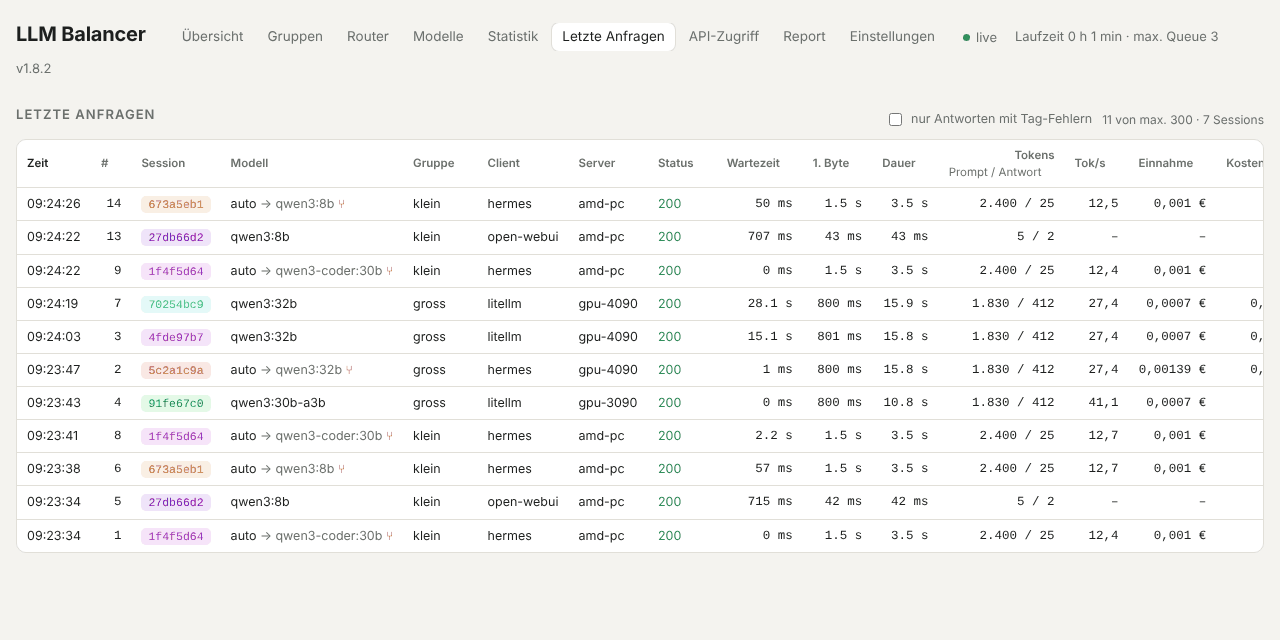
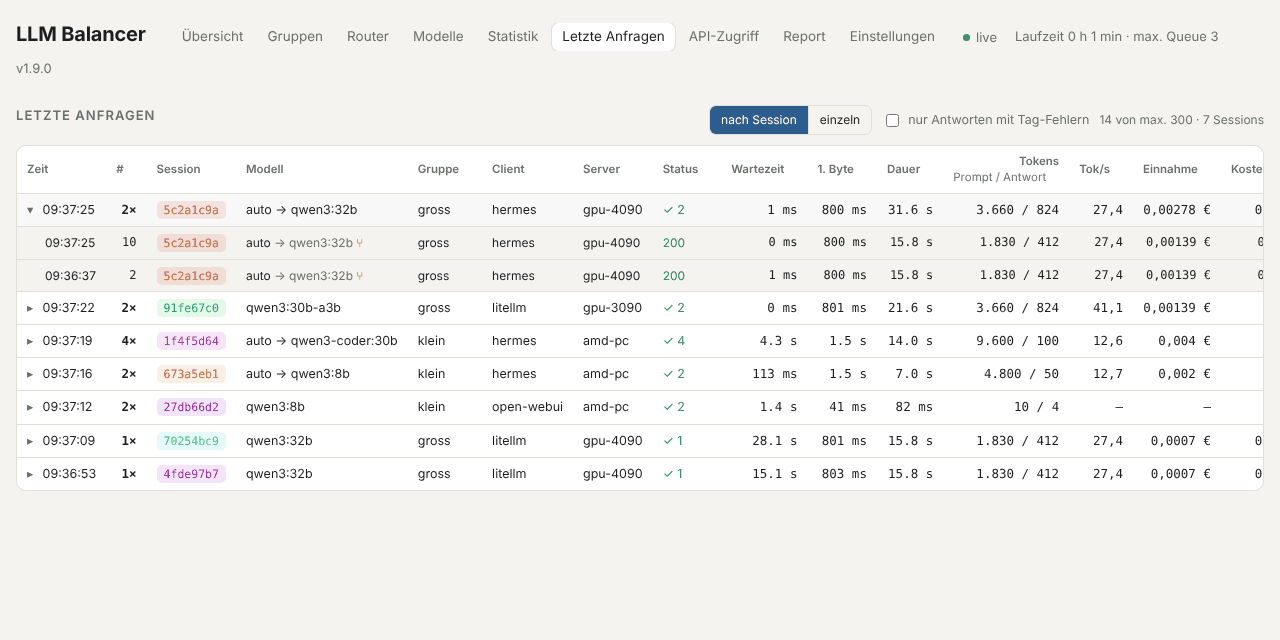
v1.9.1: recent requests grouped by session with totals, requests expandable
Claude-Session: https://claude.ai/code/session_01KQcn9DnyiX6NLjayKoW5s7

diff --git a/web/index.html b/web/index.html
@@ -266,6 +266,10 @@ body[data-role=viewer] #nform input,body[data-role=viewer] #nform select,body[da
 .chklist label{display:flex;align-items:center;gap:8px;margin:6px 0;font-size:13px;color:var(--ink)} .chklist input{width:auto}
 .impres{font-size:12.5px;margin-top:10px} .impres li{margin:2px 0}
 .lrun{display:inline-flex;align-items:center;gap:6px;font-weight:600}
+tr.sgrp{cursor:pointer} tr.sgrp:hover td{background:color-mix(in srgb, var(--ink) 3%, var(--panel))}
+tr.sgrp .chev{display:inline-block;width:12px;color:var(--muted)}
+tr.child td{background:var(--bg);font-size:12px} tr.child td:first-child{padding-left:28px}
+.okc{color:var(--free)} .errc{color:var(--down)}
 #toast{position:fixed;left:50%;bottom:20px;transform:translateX(-50%);background:var(--ink);color:var(--bg);padding:9px 14px;border-radius:8px;font-size:13px;opacity:0;transition:opacity .2s;pointer-events:none;max-width:calc(100vw - 32px)}
 #toast.show{opacity:1}
 </style>
@@ -399,7 +403,8 @@ body[data-role=viewer] #nform input,body[data-role=viewer] #nform select,body[da
   <div id="page-recent" hidden>
   <div class="sechead">
     <h2>Letzte Anfragen</h2>
-    <div class="row"><span id="sessfilter"></span><label class="chkf"><input type="checkbox" id="onlytag"> nur Antworten mit Tag-Fehlern</label>
+    <div class="row"><span id="sessfilter"></span><div class="seg" id="recentSeg"><button data-v="sessions">nach Session</button><button data-v="flat">einzeln</button></div>
+    <label class="chkf"><input type="checkbox" id="onlytag"> nur Antworten mit Tag-Fehlern</label>
     <span class="srcnote" id="recentnote"></span></div>
   </div>
   <div class="tbl scroll"><table data-sort>
@@ -1104,12 +1109,14 @@ function applySort(tbody) {
   const th = tbody.closest('table').tHead.rows[0].cells[st.col]; if (!th) return;
   const num = th.classList.contains('n');
   const rows = [...tbody.rows], fixed = rows.filter(r => r.classList.contains('sum') || r.querySelector('td.empty'));
-  const data = rows.filter(r => !fixed.includes(r)).map(r => [r, sortVal(r.cells[st.col], num)]);
+  const kids = new Map(); let parent = null; // rows with class "child" stay below the row they belong to
+  for (const r of rows) if (r.classList.contains('child')) { if (parent) kids.get(parent).push(r); } else { parent = r; kids.set(r, []); }
+  const data = rows.filter(r => !fixed.includes(r) && !r.classList.contains('child')).map(r => [r, sortVal(r.cells[st.col], num)]);
   data.sort(([, x], [, y]) => {
     if (x == null || y == null) return x == null ? (y == null ? 0 : 1) : -1; // empty cells always last
     return st.dir * (typeof x === 'number' && typeof y === 'number' ? x - y : String(x).localeCompare(String(y), 'de', {numeric: true}));
   });
-  tbody.append(...data.map(d => d[0]), ...fixed);
+  tbody.append(...data.flatMap(d => [d[0], ...(kids.get(d[0]) || [])]), ...fixed);
 }
 function initSortable(table) {
   const tbody = table.tBodies[0];
@@ -1281,10 +1288,38 @@ async function loadRecent() {
   renderRecent();
 }
 $('onlytag').addEventListener('change', () => renderRecent());
-let sessFilter = '';
+let sessFilter = '', recentView = (() => { try { return localStorage.getItem('llmb-recent') || 'sessions'; } catch { return 'sessions'; } })();
+const openSess = new Set();
+function toggleSess(k) { openSess.has(k) ? openSess.delete(k) : openSess.add(k); setTimeout(renderRecent, 0); }
+const uniq = a => [...new Set(a.filter(Boolean))];
+const listCell = (vals, max = 2) => { const u = uniq(vals); return u.length ? esc(u.slice(0, max).join(', ')) + (u.length > max ? ` <span class="muted">+${u.length - max}</span>` : '') : '<span class="muted">–</span>'; };
+function groupHTML(g, rowHTML) {
+  const L = g.list, n = L.length, open = openSess.has(g.key);
+  const sum = k => L.reduce((a, r) => a + (r[k] || 0), 0);
+  const ok = L.filter(r => r.status >= 200 && r.status < 400).length, bad = n - ok;
+  const first = L[n - 1], last = L[0];
+  const span = Date.parse(last.ended_at) - Date.parse(first.queued_at || first.ended_at);
+  const ttfb = L.filter(r => r.ttfb_ms), gen = L.filter(r => r.gen_tps > 0);
+  const tps = gen.length ? gen.reduce((a, r) => a + r.tokens_out, 0) / gen.reduce((a, r) => a + r.tokens_out / r.gen_tps, 0) : 0;
+  const tags = L.filter(r => r.tag_issues?.length).length;
+  const models = L.map(r => (r.requested || r.model || r.path) + (r.effective_model ? ' → ' + r.effective_model : ''));
+  const head = `<tr class="sgrp" onclick='toggleSess(${attr(g.key)})' title="${n} Anfragen von ${hms(first.queued_at || first.ended_at)} bis ${hms(last.ended_at)} (${dur(span)}) – klicken zum ${open ? 'Zuklappen' : 'Aufklappen'}">
+    <td data-v="${Date.parse(last.ended_at) || ''}"><span class="chev">${open ? '▾' : '▸'}</span> ${hms(last.ended_at)}</td><td class="n" data-v="${n}"><b>${n}×</b></td>
+    <td data-v="${esc(g.session || '')}">${g.session ? sessChip(g.session, g.src, n) : '<span class="muted">–</span>'}</td>
+    <td>${listCell(models)}</td><td>${listCell(L.map(r => r.group))}</td><td>${listCell(L.map(r => r.token || r.client))}</td><td>${listCell(L.map(r => r.backend))}</td>
+    <td data-v="${bad}"><span class="okc">✓ ${ok}</span>${bad ? ` <span class="errc">✕ ${bad}</span>` : ''}</td>
+    <td class="n" title="Summe der Wartezeit">${dur(sum('queue_ms'))}</td><td class="n" title="Ø">${ttfb.length ? dur(Math.round(ttfb.reduce((a, r) => a + r.ttfb_ms, 0) / ttfb.length)) : '–'}</td>
+    <td class="n" title="Summe der Rechenzeit; Zeitraum ${dur(span)}">${dur(sum('duration_ms'))}</td>
+    <td class="n">${sum('tokens_in') || sum('tokens_out') ? num(sum('tokens_in')) + ' / ' + num(sum('tokens_out')) : '–'}</td><td class="n">${tpsFmt(tps)}</td>
+    <td class="n">${sum('cost') ? money(sum('cost')) : '–'}</td><td class="n">${sum('backend_cost') ? money(sum('backend_cost')) : '–'}</td>
+    <td class="${tags ? 'tagerr' : 'muted'}">${tags ? '⚠ ' + tags : '–'}</td></tr>`;
+  return head + (open ? L.map(r => rowHTML(r, true)).join('') : '');
+}
+segment('recentSeg', v => { recentView = v; try { localStorage.setItem('llmb-recent', v); } catch {} renderRecent(); });
+document.querySelectorAll('#recentSeg button').forEach(b => b.classList.toggle('on', b.dataset.v === recentView));
 const sessHue = id => parseInt(id.slice(0, 6), 16) % 360;
 const sessChip = (id, src, n) => `<span class="sess" style="color:hsl(${sessHue(id)} 62% 46%);background:hsl(${sessHue(id)} 62% 50% / .13)"
-  title="${esc((src || '') + (n ? `\n${n} Anfragen in der Liste` : '') + '\nAnklicken: nur diese Session zeigen')}" onclick='setSess(${attr(id)})'>${esc(id)}</span>`;
+  title="${esc((src || '') + (n ? `\n${n} Anfragen in der Liste` : '') + '\nAnklicken: nur diese Session zeigen')}" onclick='event.stopPropagation(); setSess(${attr(id)})'>${esc(id)}</span>`;
 function setSess(id) {
   sessFilter = sessFilter === id ? '' : id;
   $('sessfilter').innerHTML = sessFilter ? `<span class="fpill">Session ${esc(sessFilter)} <button title="Filter entfernen" onclick="setSess('')">✕</button></span>` : '';
@@ -1298,10 +1333,10 @@ function renderRecent() {
   const perSess = {}; for (const r of recent) if (r.session) perSess[r.session] = (perSess[r.session] || 0) + 1;
   const nSess = Object.keys(perSess).length;
   $('recentnote').textContent = recent.length ? `${recent.length} von max. 300${nSess ? ` · ${nSess} Sessions` : ''}${nTag ? ` · ${nTag} mit Tag-Fehlern` : ''}` : '';
-  setHTML($('recent'), rows.length ? rows.map(r => {
+  const rowHTML = (r, child) => {
     const tps = tpsFmt(r.gen_tps);
     const tagCell = r.tag_issues?.length ? `<td class="tagerr" title="${esc(r.tag_issues.join('\n'))}">⚠ ${esc(r.tag_issues[0])}${r.tag_issues.length > 1 ? ` (+${r.tag_issues.length - 1})` : ''}</td>` : '<td class="muted">–</td>';
-    return `<tr>
+    return `<tr${child ? ' class="child"' : ''}>
       <td data-v="${Date.parse(r.ended_at) || ''}">${hms(r.ended_at)}</td><td class="n">${r.id}</td>
       <td data-v="${esc(r.session || '')}">${r.session ? sessChip(r.session, r.session_src, perSess[r.session]) : '<span class="muted">–</span>'}</td><td>${esc(r.requested || r.model || r.path)}${r.effective_model ? ` <span class="muted">→ ${esc(r.effective_model)}</span>` : ''}${r.router ? ` <span class="retry" title="Router ${esc(r.router)}">⑂</span>` : ''}</td><td>${esc(r.group || '–')}</td>
       <td>${r.token ? esc(r.token) : '<span class="muted">' + esc(r.client) + '</span>'}</td>
@@ -1309,7 +1344,20 @@ function renderRecent() {
       <td class="${r.status >= 200 && r.status < 400 ? 'ok' : 'bad'}" title="${esc(r.error)}">${r.status}${r.error ? ' · ' + esc(r.error.slice(0, 40)) : ''}</td>
       <td class="n">${dur(r.queue_ms)}</td><td class="n">${dur(r.ttfb_ms)}</td><td class="n">${dur(r.duration_ms)}</td>
       <td class="n">${r.tokens_in || r.tokens_out ? num(r.tokens_in) + ' / ' + num(r.tokens_out) : '–'}</td><td class="n">${tps}</td>
-      <td class="n">${r.cost ? money(r.cost) : '–'}</td><td class="n">${r.backend_cost ? money(r.backend_cost) : '–'}</td>${tagCell}</tr>`; }).join('')
+      <td class="n">${r.cost ? money(r.cost) : '–'}</td><td class="n">${r.backend_cost ? money(r.backend_cost) : '–'}</td>${tagCell}</tr>`; };
+  let html;
+  if (recentView === 'flat' || sessFilter) html = rows.map(r => rowHTML(r, false)).join('');
+  else {
+    // one row per session (requests without session stand alone), newest first; the requests are expandable
+    const groups = [], byKey = {};
+    for (const r of rows) {
+      const k = r.session || 'req:' + r.id;
+      if (!byKey[k]) { byKey[k] = {key: k, session: r.session, src: r.session_src, list: []}; groups.push(byKey[k]); }
+      byKey[k].list.push(r);
+    }
+    html = groups.map(g => g.list.length === 1 && !g.session ? rowHTML(g.list[0], false) : groupHTML(g, rowHTML)).join('');
+  }
+  setHTML($('recent'), rows.length ? html
     : `<tr><td colspan="16" class="empty">${sessFilter ? 'Keine Anfragen dieser Session in der Liste.' : onlyTag ? 'Keine Antworten mit Tag-Fehlern.' : 'Noch keine Anfragen.'}</td></tr>`);
 }
 

diff --git a/README.md b/README.md
@@ -181,8 +181,13 @@ auf Anfragen und Warteschlange, für alle oder einen Server – dazu Auslastung 
 
 Die letzten 300 Anfragen mit Zeit, Session, Modell (`auto → qwen3-coder:30b` = vom Router gewählt, ⑂ im Tooltip die
 Regel), Gruppe, API-Token, Server (↻ = auf einem anderen Server wiederholt, Weg im Tooltip), Status, Wartezeit, Zeit bis
-zum ersten Byte, Dauer, Tokens, tok/s, Einnahme, Kosten und Tag-Prüfung. Ein Klick auf eine **Session** zeigt nur die
-Anfragen dieser Unterhaltung bzw. dieses Agenten-Laufs.
+zum ersten Byte, Dauer, Tokens, tok/s, Einnahme, Kosten und Tag-Prüfung.
+
+Standardmäßig sind die Anfragen **nach Session gruppiert**: eine Zeile pro Unterhaltung bzw. Agenten-Lauf mit der Zahl
+der Anfragen (`4×`), den beteiligten Modellen, Tokens und Servern, erfolgreichen/fehlgeschlagenen Anfragen (✓/✕) sowie
+Summen von Wartezeit, Rechenzeit, Tokens, Einnahmen und Kosten (1. Byte und tok/s als Durchschnitt). Ein Klick auf die
+Zeile klappt die einzelnen Anfragen auf; sortiert wird nach den Session-Zeilen. **einzeln** zeigt die flache Liste wie
+früher, ein Klick auf eine **Session**-Kennung nur deren Anfragen.
 
 ![Letzte Anfragen](docs/screenshots/anfragen.png)
 

diff --git a/CHANGELOG.md b/CHANGELOG.md
@@ -3,6 +3,12 @@
 Versionsnummer: `VERSION` (wird ins Programm eingebaut und oben in der Web-UI angezeigt).
 Zu jeder Version gibt es ein Image `ghcr.io/wakkomon/llm-balancer:<version>`; `latest` ist immer der neueste Stand von `main`.
 
+## 1.9.1 – 2026-11-01
+
+- **Letzte Anfragen nach Session gruppiert** (Standard): eine Zeile pro Session mit Anzahl, Modellen, Tokens, Servern,
+  Erfolg/Fehler und Summen (Wartezeit, Rechenzeit, Tokens, Einnahmen, Kosten); die einzelnen Anfragen aufklappbar.
+  Umschalter „nach Session / einzeln“, Sortierung hält die aufgeklappten Anfragen unter ihrer Session
+
 ## 1.9.0 – 2026-11-01
 
 - **Live-Durchsatz**: erzeugte Tokens pro Sekunde (Ø der letzten 10 s) – als Kachel in der Übersicht, pro API-Token
